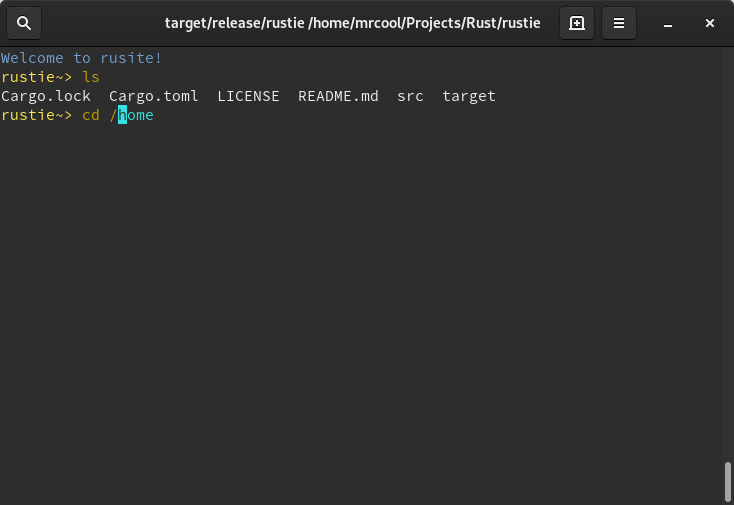
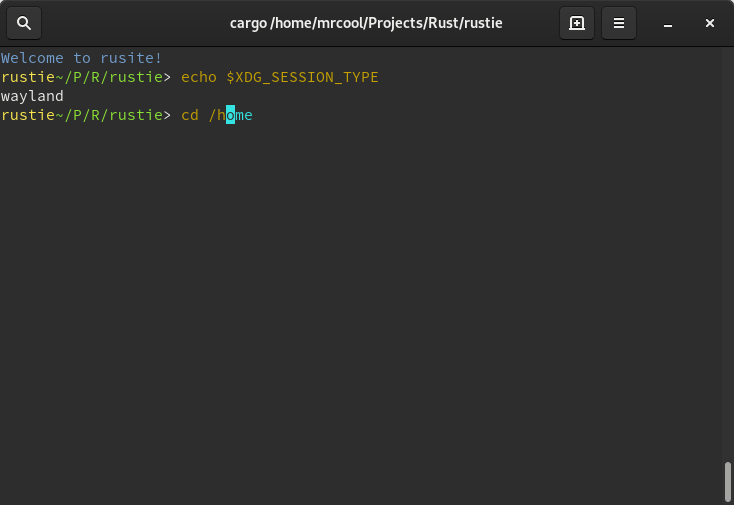
0.1.8

diff --git a/CHANGELOG.md b/CHANGELOG.md
@@ -1,3 +1,7 @@
+**0.1.8**
+- Add the abilty to read env vars, example: `echo $PATH`
+- Add cwd to prompt
+
 **0.1.7**
 - Add history to suggestions
 - Refactor code
